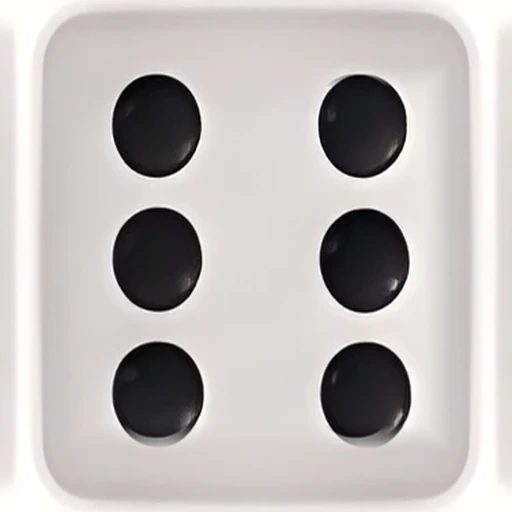
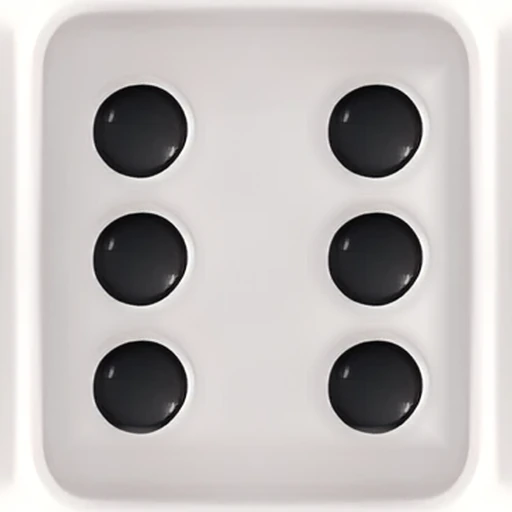
요트 히어로즈 v0.30.8: 꾸미기 주사위 그림 꼭지점 둥글게 · 키캡 눈 동그랗게
- 꾸미기 목록: 그림 주사위가 네모로 잘린 그대로 보여 직각이었다 → 기본 주사위처럼 둥근 꼭지점 (border-radius)
- 키캡: 눈이 있는 윗면 판이 가로로 길어서(94×80) 정사각으로 늘리면 눈이 세로로 길쭉해졌다
  → 눈을 지운 판만 늘리고, 원래 비율의 동그란 눈을 표준 자리에 다시 얹는다 (redraw)

Claude-Session: https://claude.ai/code/session_014gChBYzVF9cfUwsBghVSK5

Changed region(s): [[0.5938, 0.125, 0.8438, 0.875], [0.1562, 0.125, 0.4062, 0.625], [0.1562, 0.6562, 0.4062, 0.875]]

diff --git a/dice-heroes/style.css b/dice-heroes/style.css
@@ -1024,6 +1024,7 @@ html.color-assist .d2.held::after, html.color-assist .member.turn::after { conte
 .skin-card { position: relative; display: flex; flex-direction: column; align-items: center; gap: 2px; padding: 8px 6px; text-align: center;
   background: #221B57; border: 3px solid var(--ink); box-shadow: 0 4px 0 var(--ink); }
 .skin-card img { width: 72px; height: 56px; object-fit: contain; image-rendering: auto; }
+.skin-card img.die-th { width: 56px; height: 56px; border-radius: 19%; }   /* 주사위 그림 꼭지점을 기본 주사위처럼 둥글게 (그림 파일은 네모로 잘려 있다) */
 .skin-card b { font-size: 13px; }
 .skin-card small { font-size: 10px; color: var(--muted); line-height: 1.3; }
 .skin-card.on { border-color: var(--gold); box-shadow: 0 0 0 2px var(--gold), 0 0 14px rgba(255, 200, 61, .5), 0 4px 0 var(--ink); }

diff --git a/dice-heroes/app.js b/dice-heroes/app.js
@@ -2728,7 +2728,7 @@ async function showSkins(tab = 'dice') {
     const open = Wal.owns(tab, k.id);
     const trying = skinTry?.kind === tab && skinTry.id === k.id;
     return `<button class="skin-card${k.id === cur ? ' on' : ''}${open ? '' : ' locked'}${trying ? ' trying' : ''}" data-act="skin-pick" data-kind="${tab}" data-id="${k.id}">
-      <img src="${thumb(k.id)}" alt="">
+      <img${tab === 'dice' ? ' class="die-th"' : ''} src="${thumb(k.id)}" alt="">
       <b>${esc(k.name)}</b><small>${esc(k.desc)}</small>
       ${open ? (k.tier === 'special' ? '<span class="skin-tag">보유</span>' : '') : `<span class="skin-tag price">${ico('gem', 'xs')}${Wal.priceOf(tab, k.id).toLocaleString()}</span>`}
       ${k.id === cur ? '<span class="skin-on">사용 중</span>' : ''}

diff --git a/dice-heroes/config.js b/dice-heroes/config.js
@@ -3,6 +3,6 @@ export const GAME = {
   name: '요트 히어로즈',
   en: 'YACHT HEROES',
   studio: 'HAHAHOHO COMPANY',
-  version: '0.30.7',
+  version: '0.30.8',
   year: 2026,
 };

diff --git a/dice-heroes/tools/make_dice_from_sheet.py b/dice-heroes/tools/make_dice_from_sheet.py
@@ -29,7 +29,7 @@ CX = [553, 714, 876, 1041, 1207, 1369]
 #   한 변은 주사위 앞면 폭(약 110px)에 대한 픽셀 수. 모서리 둥근 바깥(배경)이 안 들어오게 조금 안쪽으로 잡는다
 SKINS = {   # rim: 테두리를 대칭으로 만들 때 쓸 1/4 ('tl' 왼쪽 위 · 'bl' 왼쪽 아래)
     'heart':     dict(cy=67,  side=102, rim='bl'),
-    'keycap':    dict(cy=186, box=(-47, -40, 47, 40)),     # 눈이 있는 윗면만 (가운데 기준 상대 좌표)
+    'keycap':    dict(cy=186, box=(-47, -40, 47, 40), redraw=True),   # 눈이 있는 윗면만 (가운데 기준). 판이 가로로 길어 눈을 다시 얹는다
     'clear':     dict(cy=315, side=112),
     'minimal':   dict(cy=435, side=108, rim='bl'),
     'gold':      dict(cy=556, side=108, rim='bl'),
@@ -86,11 +86,63 @@ def crop_face(sheet, arr, name, c):
     if os.path.exists(hi):                                   # 4배 키운 칸에서 같은 자리를 오린다
         x0, y0, _, _ = cell_box(name, c)
         big = Image.open(hi).convert('RGB')
-        face = big.crop(tuple(round((v - o) * SCALE) for v, o in zip(box, (x0, y0, x0, y0)))).resize((SIZE, SIZE), Image.LANCZOS)
+        crop = big.crop(tuple(round((v - o) * SCALE) for v, o in zip(box, (x0, y0, x0, y0))))
+        if p.get('redraw'):
+            return symmetric_rim(redraw_pips(name, crop, c + 1, sheet, arr), p.get('rim', 'tl'), t)
+        face = crop.resize((SIZE, SIZE), Image.LANCZOS)
         return symmetric_rim(face, p.get('rim', 'tl'), t)
     face = sheet.crop(tuple(int(round(v)) for v in box)).resize((SIZE, SIZE), Image.LANCZOS)
     face = symmetric_rim(face, p.get('rim', 'tl'), t)
     return face.filter(ImageFilter.UnsharpMask(radius=1.4, percent=60, threshold=2))
+
+
+# skins.js 와 같은 눈 배치 (면 비율)
+PIP_POS = {
+    1: [(.5, .5)], 2: [(.27, .27), (.73, .73)], 3: [(.27, .27), (.5, .5), (.73, .73)],
+    4: [(.27, .27), (.73, .27), (.27, .73), (.73, .73)],
+    5: [(.27, .27), (.73, .27), (.5, .5), (.27, .73), (.73, .73)],
+    6: [(.27, .25), (.73, .25), (.27, .5), (.73, .5), (.27, .75), (.73, .75)],
+}
+
+
+def dark_pips(a):
+    return (a.sum(2) < 200).astype(np.uint8)
+
+
+_PIP = {}
+def pip_sprite_of(name, sheet, arr):
+    """1 면 가운데 눈을 원래 비율 그대로 오린 RGBA 조각과, 판 가로폭 대비 눈 지름"""
+    if name in _PIP: return _PIP[name]
+    p = SKINS[name]; cx, cy = face_center(arr, name, 0); x0, y0, _, _ = cell_box(name, 0)
+    l, t, r, b = p['box']
+    big = Image.open(os.path.join(HIRES, f'{name}_1.webp')).convert('RGB')
+    crop = np.asarray(big.crop(tuple(round((v - o) * SCALE) for v, o in zip((cx + l, cy + t, cx + r, cy + b), (x0, y0, x0, y0))))).copy()
+    k, _, st, cen = cv2.connectedComponentsWithStats(dark_pips(crop))
+    i = 1 + int(np.argmax(st[1:, 4]))
+    d = (st[i, 2] + st[i, 3]) / 2
+    R = int(d * 0.72)                                       # 눈 둘레의 옅은 그림자까지
+    px, py = int(cen[i][0]), int(cen[i][1])
+    sp = crop[py - R:py + R, px - R:px + R]
+    m = np.zeros((2 * R, 2 * R), np.float32); cv2.circle(m, (R, R), int(R * 0.92), 1.0, -1)
+    m = cv2.GaussianBlur(m, (0, 0), R * 0.08)
+    rgba = Image.fromarray(np.dstack([sp, (m * 255).astype(np.uint8)]), 'RGBA')
+    _PIP[name] = (rgba, d / crop.shape[1], R / d)
+    return _PIP[name]
+
+
+def redraw_pips(name, crop, v, sheet, arr):
+    """판이 정사각이 아니라서(키캡 94×80) 그대로 늘리면 눈이 길쭉해진다 →
+    눈을 지운 판(inpaint)만 정사각으로 늘리고, 원래 비율의 동그란 눈을 표준 자리(PIP_POS)에 다시 얹는다"""
+    a = np.asarray(crop).copy()
+    hole = cv2.dilate(dark_pips(a), np.ones((25, 25), np.uint8))
+    base = Image.fromarray(cv2.inpaint(a, hole, 9, cv2.INPAINT_TELEA)).resize((SIZE, SIZE), Image.LANCZOS)
+    sprite, dfrac, rr = pip_sprite_of(name, sheet, arr)
+    D = dfrac * SIZE
+    S2 = int(round(D * rr * 2))
+    sp = sprite.resize((S2, S2), Image.LANCZOS)
+    for fx, fy in PIP_POS[v]:
+        base.paste(sp, (int(round(fx * SIZE - S2 / 2)), int(round(fy * SIZE - S2 / 2))), sp)
+    return base
 
 
 RIM, RIM_SOFT, CORNER = 0.12, 0.05, 0.13     # 테두리 띠 폭 · 섞이는 폭 · 모서리 둥글기 (한 변 대비)
